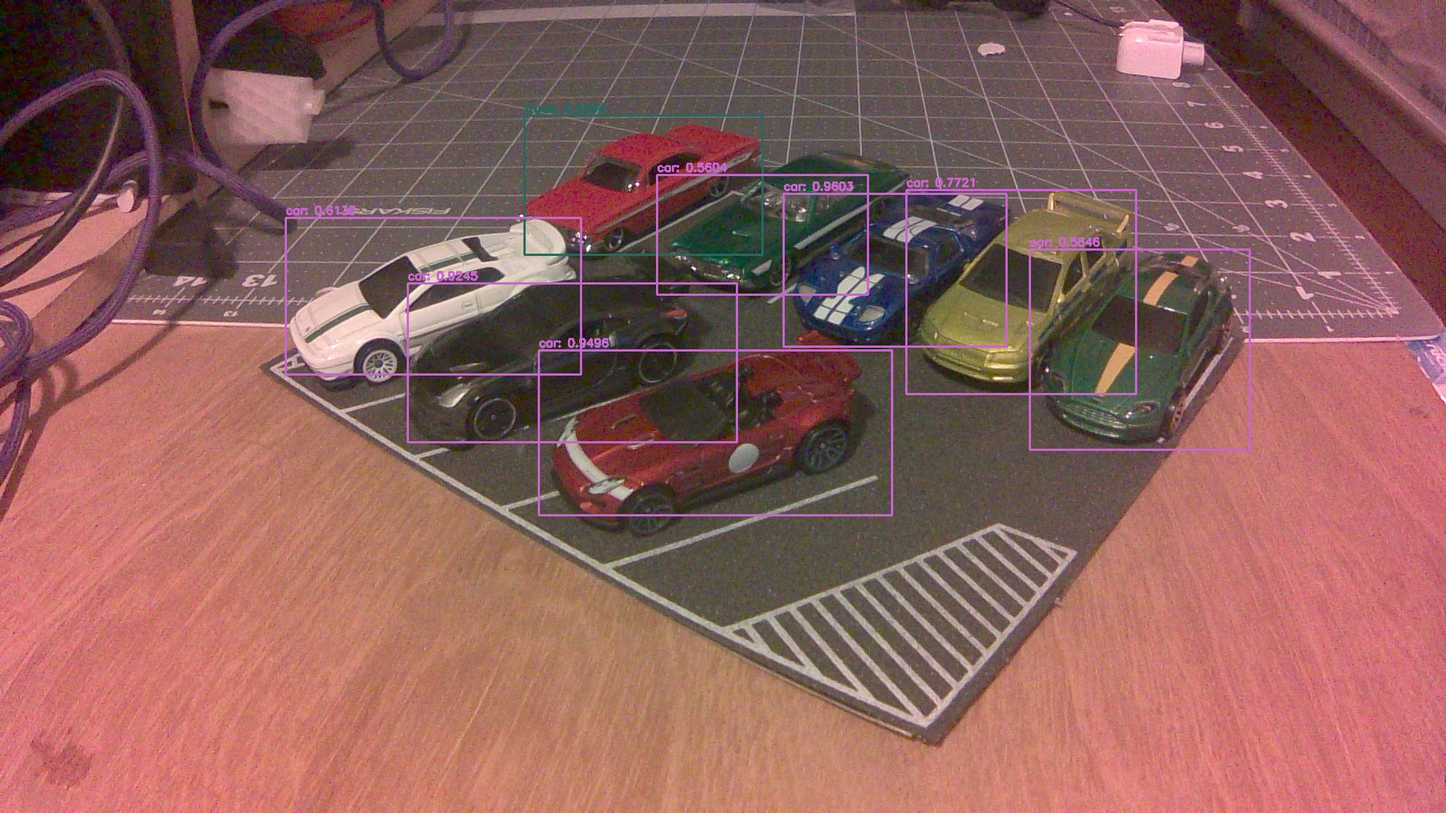
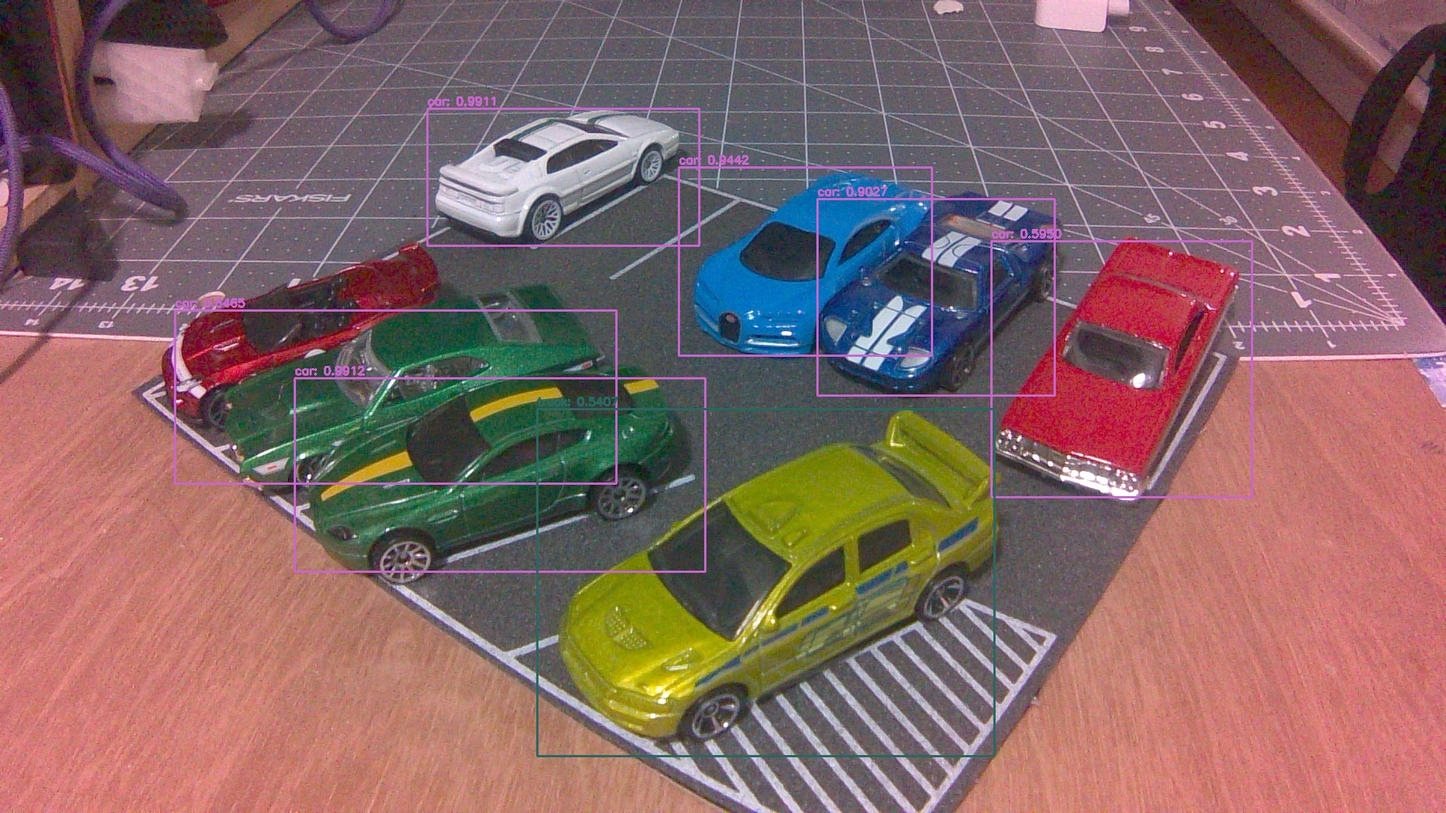
Updated website to pull updating images and vehicle count

diff --git a/yoloParking.py b/yoloParking.py
@@ -84,6 +84,9 @@ def detect(imagePath, yolo, minConfidence, threshold):
     print("[INFO] Output image saved successfully")
 
     print("[INFO] %2d cars detected" % (numCars))
+    out_file = open("Output.json", "w")
+    json.dump(numCars, out_file, "w")
+    out_file.close()
 
 def takePhoto(imagePath, yolo):
     camera = cv2.VideoCapture(gstreamer_pipeline(flip_method=0), cv2.CAP_GSTREAMER)
@@ -149,12 +152,13 @@ net = cv2.dnn.readNetFromDarknet(configPath,weightsPath)
 
 ##LOOP##
 while True:
-    i = 0
+    #Read in from video buffer to clear
     for i in range(0,10):
         ret, image = camera.read()
     
     cv2.imwrite('capture.jpg', image)
     detect(imagePath, yolo, minConfidence, threshold)
     #time.sleep(5)
+    
 
 del(camera)

diff --git a/parking_traker_website/tracker/refresh.py b/parking_traker_website/tracker/refresh.py
@@ -1,17 +1,21 @@
+import json
+
 def refresh_image(index):
-    url = f'./static/media/parking{index}.jpg'
+    url = f'/home/munzz11/WestLotSpot/Output.jpg'
     copy(url)
 
 
 def get_count(index):
-    current = [7, 8, 7, 4, 4, 5, 9, 8, 7, 8]
+    file = open('/home/munzz11/WestLotSpot/Output.json',)
+    data = json.load(file)
+    print(data)
     refresh_image(index)
-    return current[index]
+    return data
 
 def copy(img_url):
     
     image_file = open(img_url,'rb')
-    #print(image_file)
+    print(image_file)
     file = open('./static/media/parking.jpeg','wb+')
     BUFSIZ = 2048
     image_data = image_file.read(BUFSIZ)
